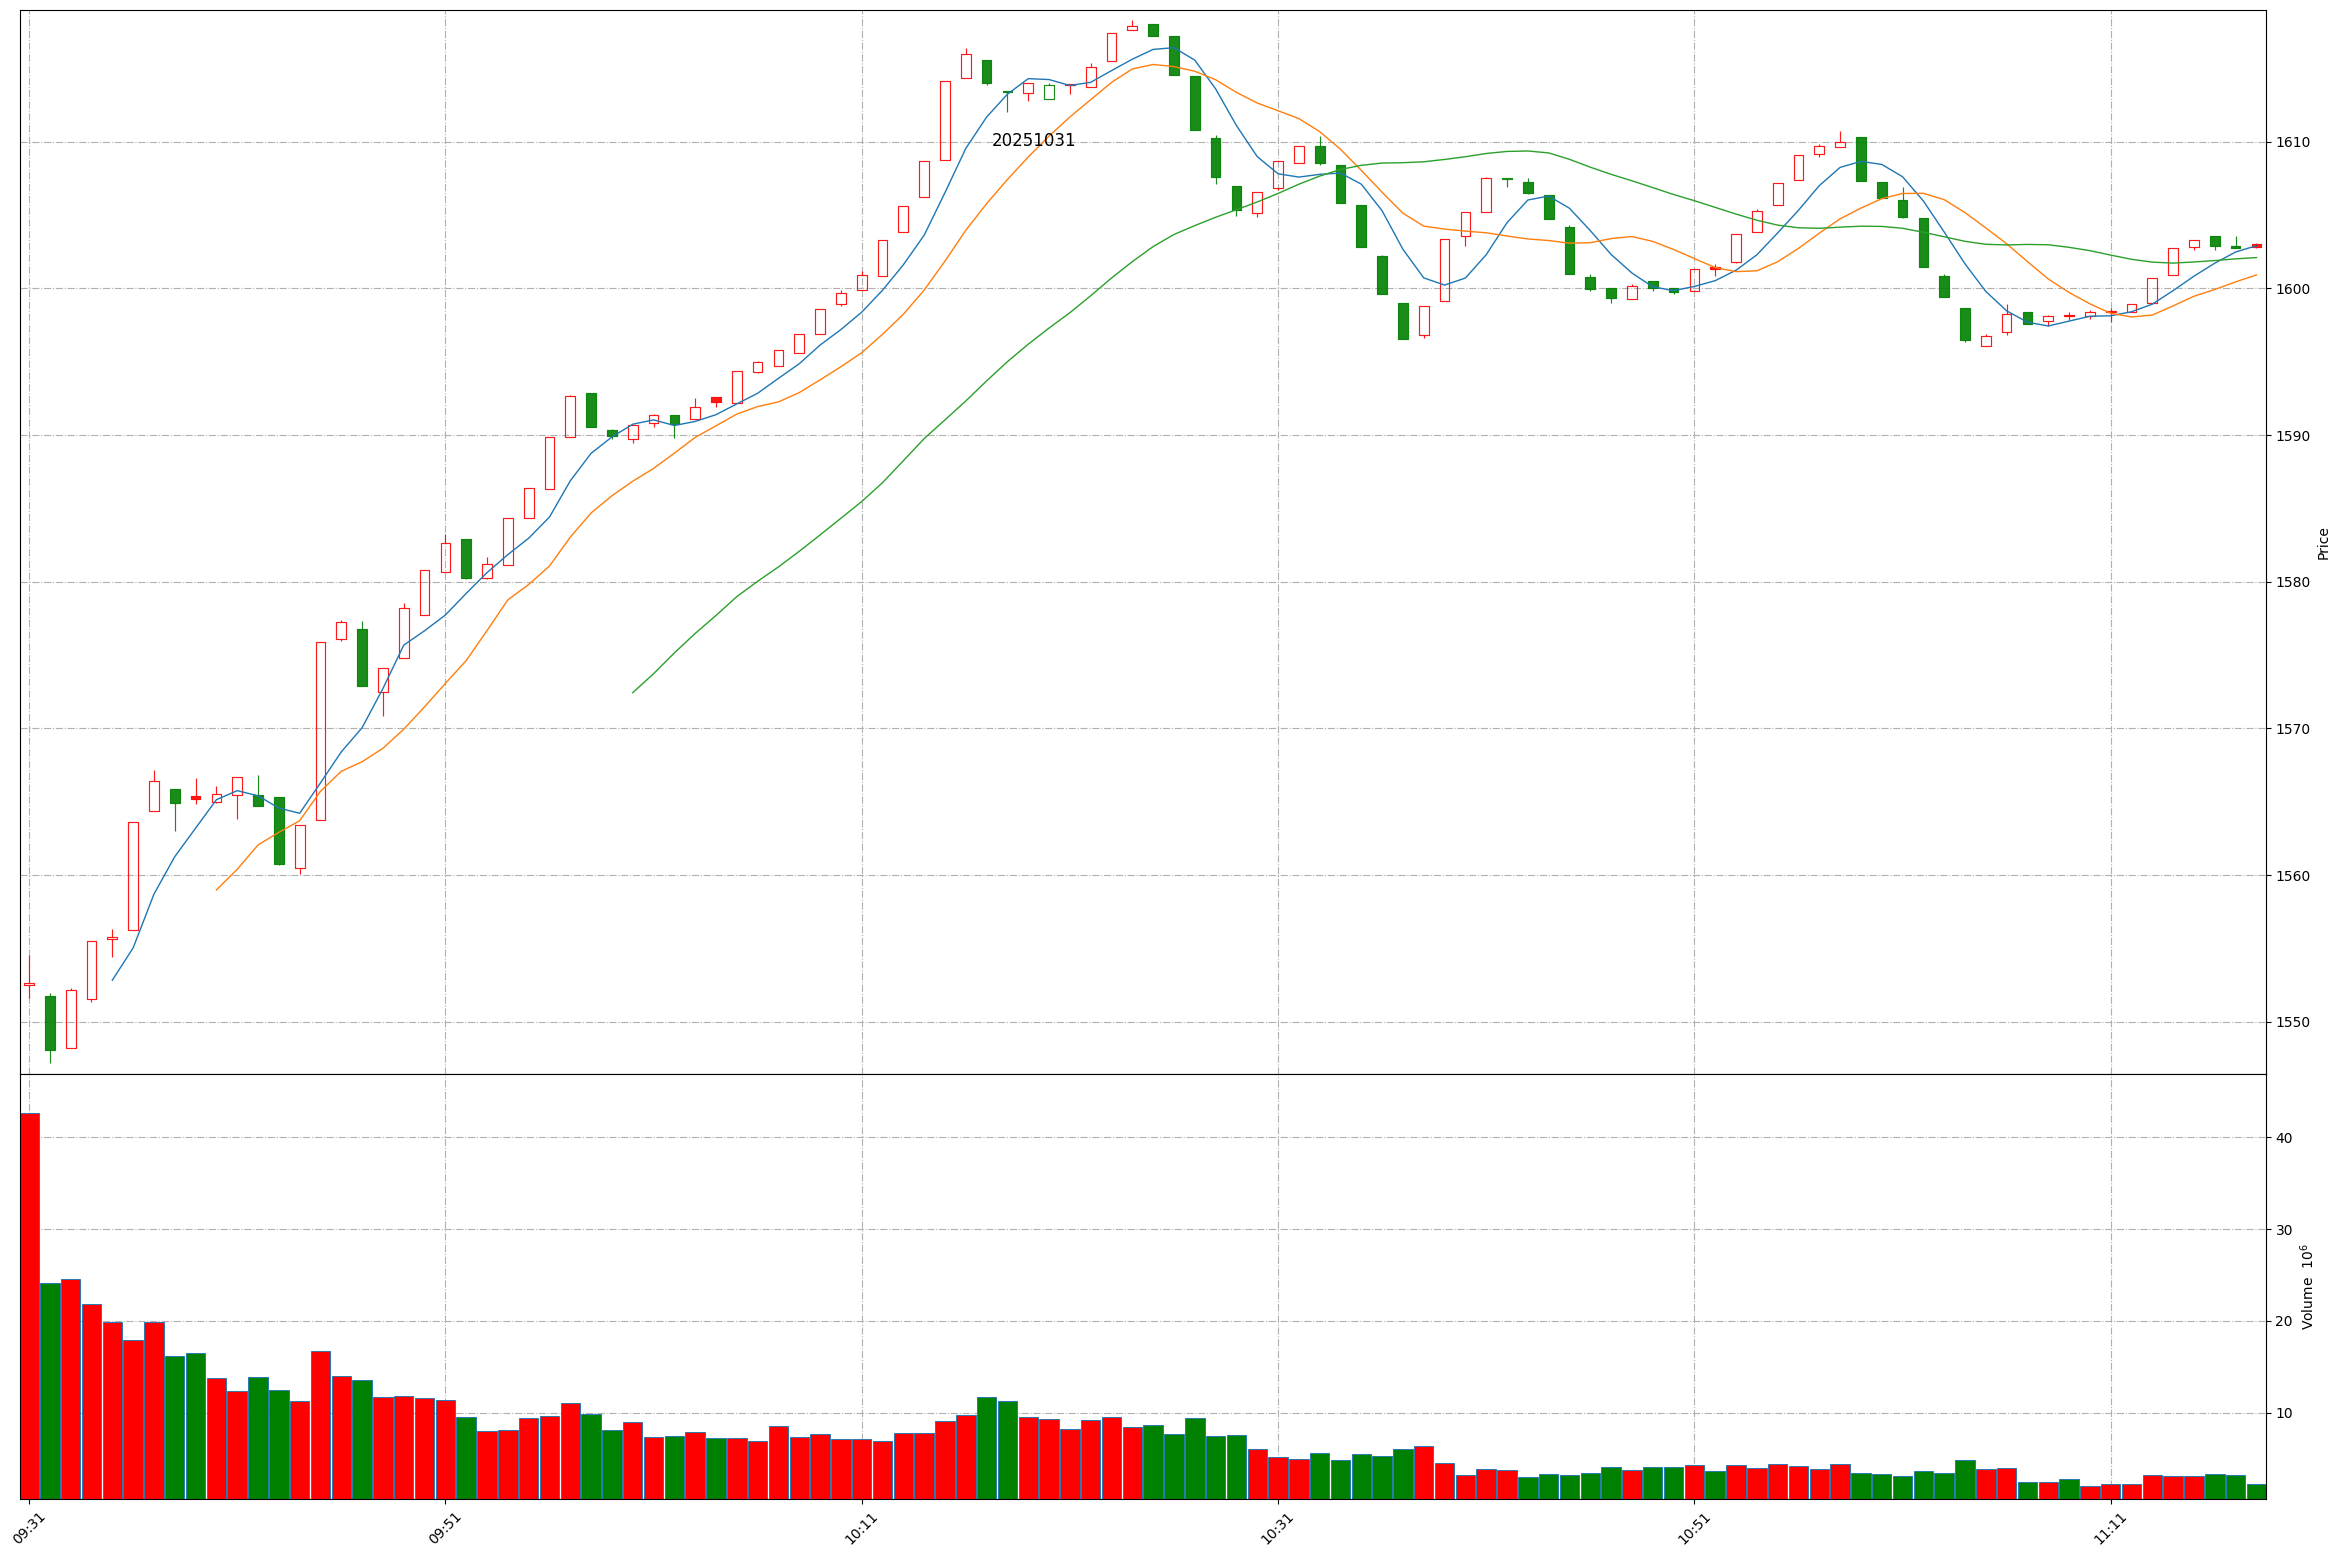
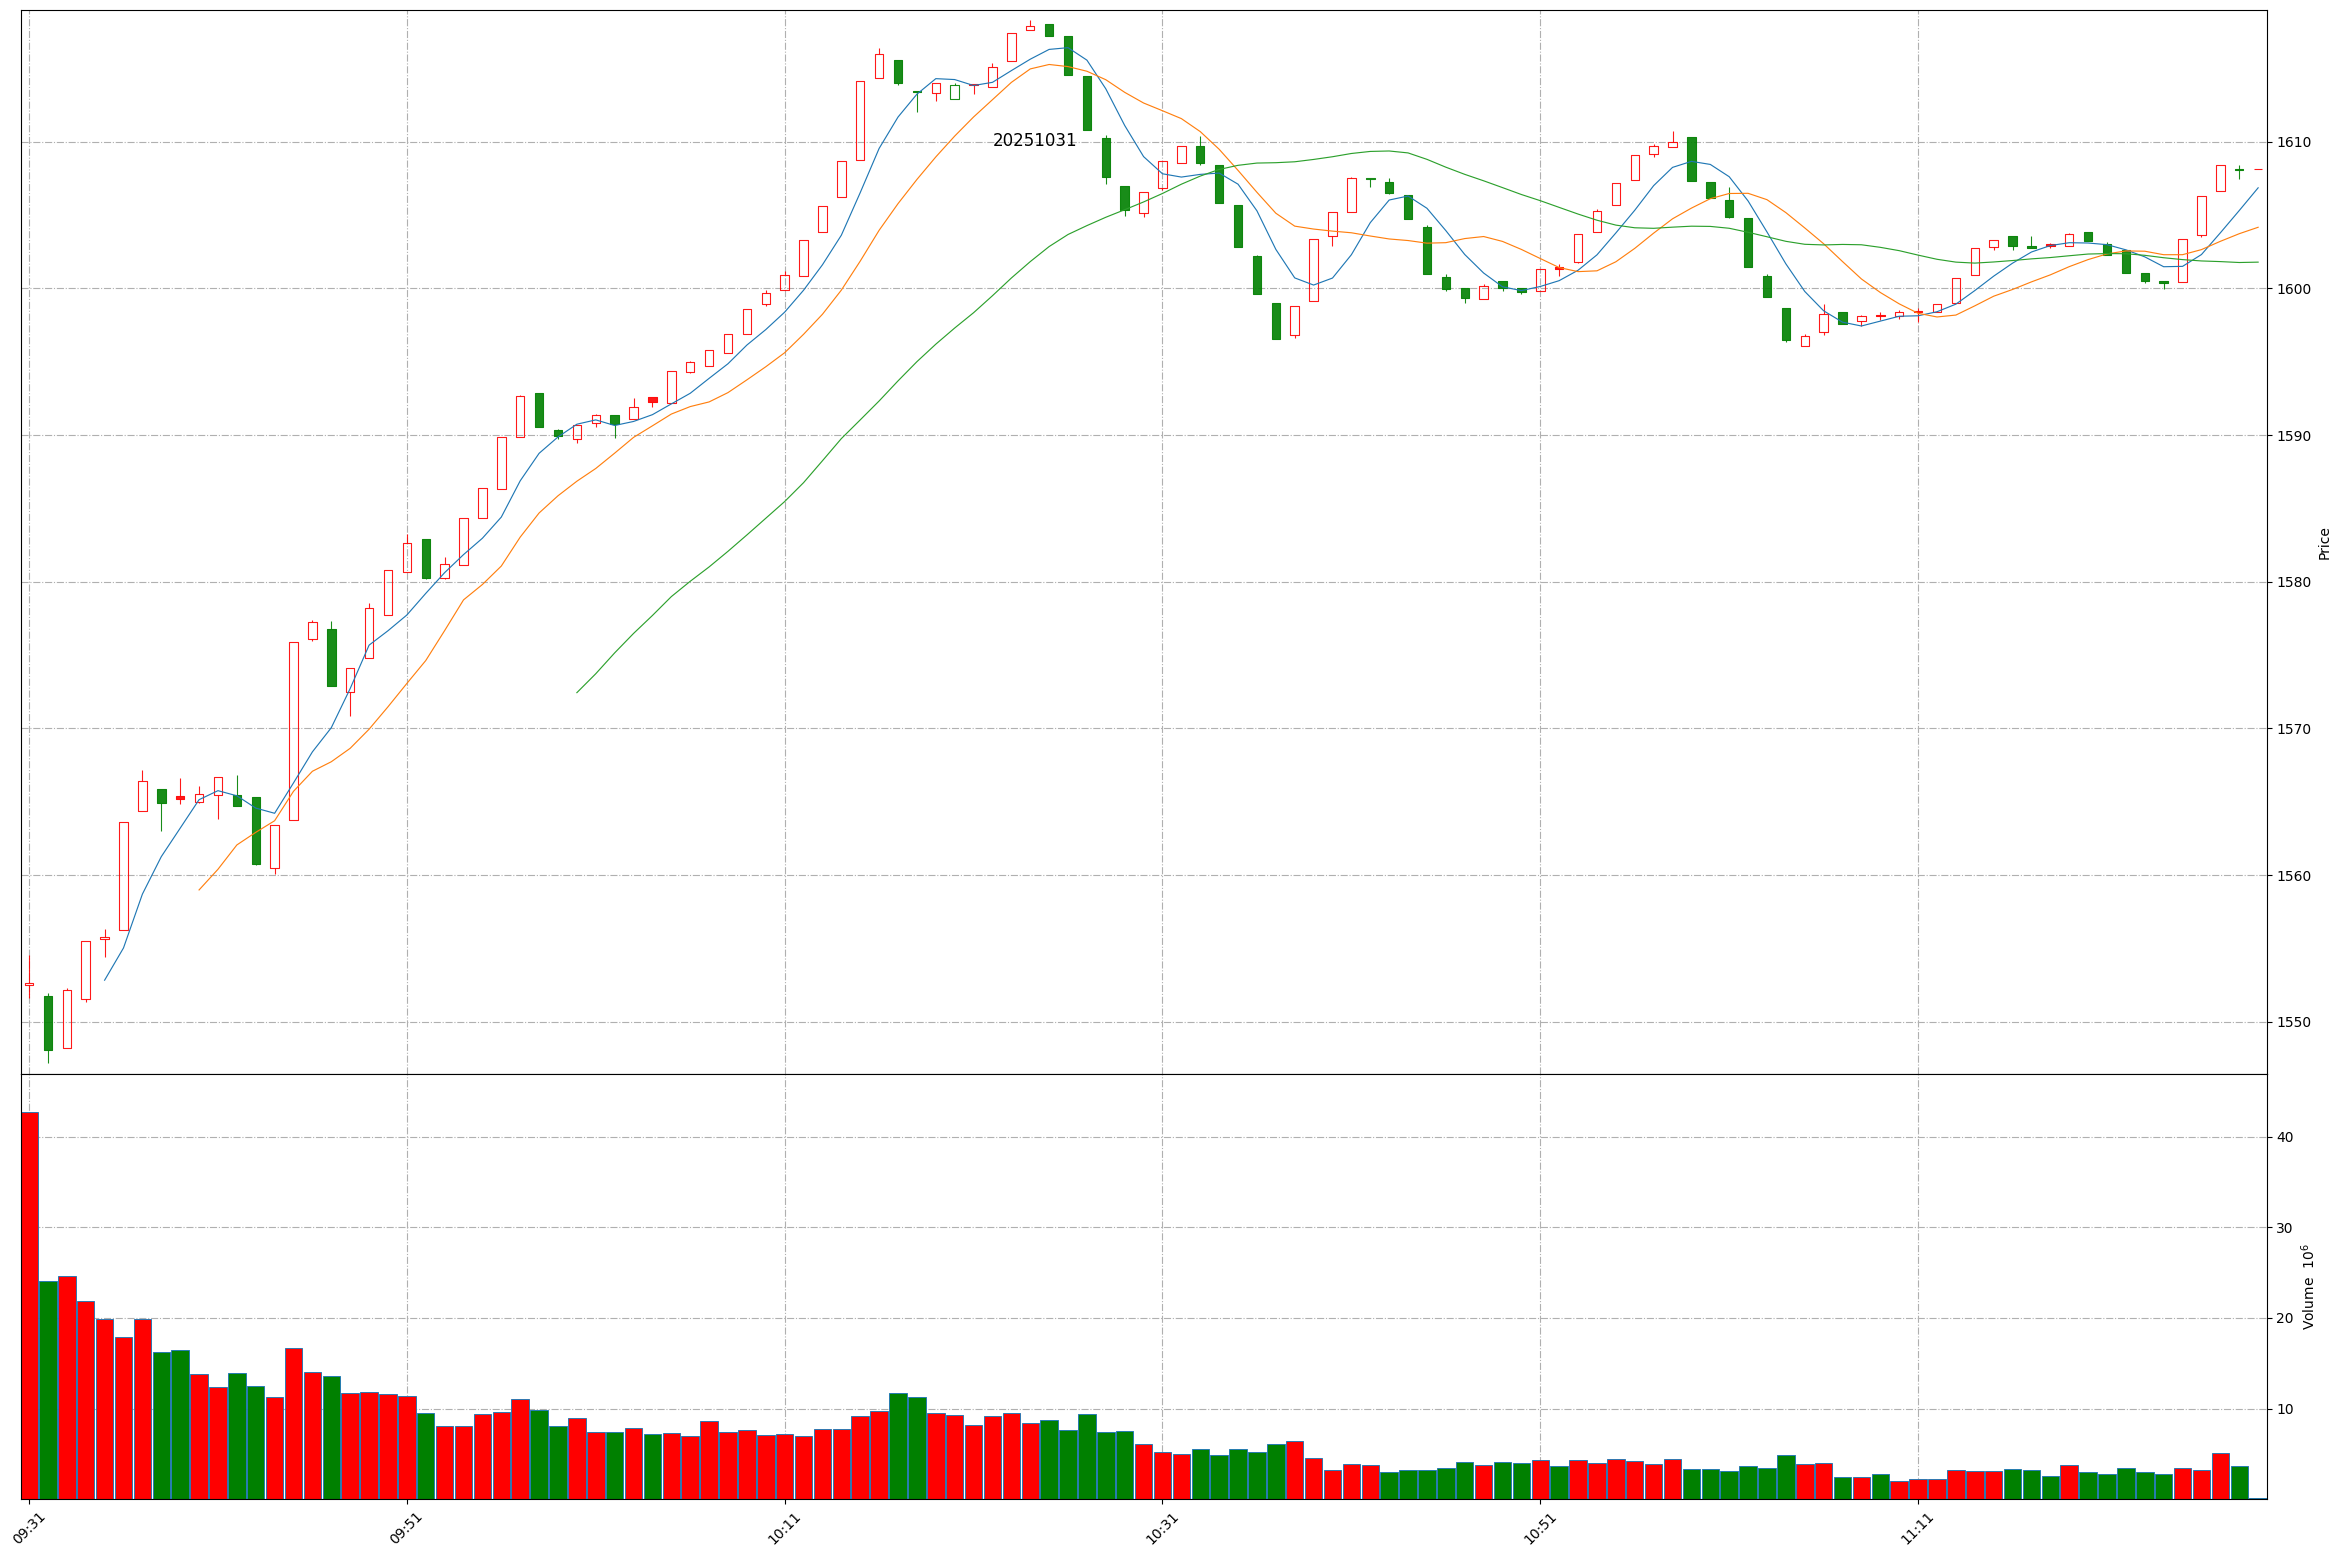
Github action update at 2025-10-31 11:28:23.

diff --git a/README.md b/README.md
@@ -1,11 +1,11 @@
 
 # Daily-A-share-market-quotes 每日 A 股指数（5min 更新）- 20251031
 
-### 上证指数 20251031 11:18
+### 上证指数 20251031 11:28
 ![](./fig/2025/10/20251031-sh000001.png)
 
-### 深证成指 20251031 11:18
+### 深证成指 20251031 11:28
 ![](./fig/2025/10/20251031-sz399001.png)
 
-### 北证50 20251031 11:18
+### 北证50 20251031 11:28
 ![](./fig/2025/10/20251031-bj899050.png)
